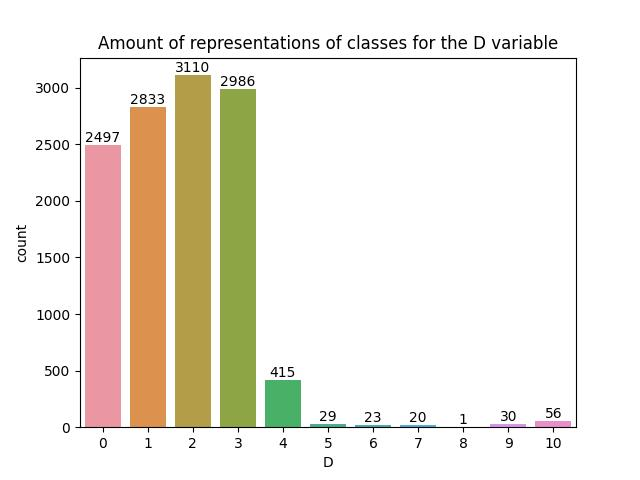
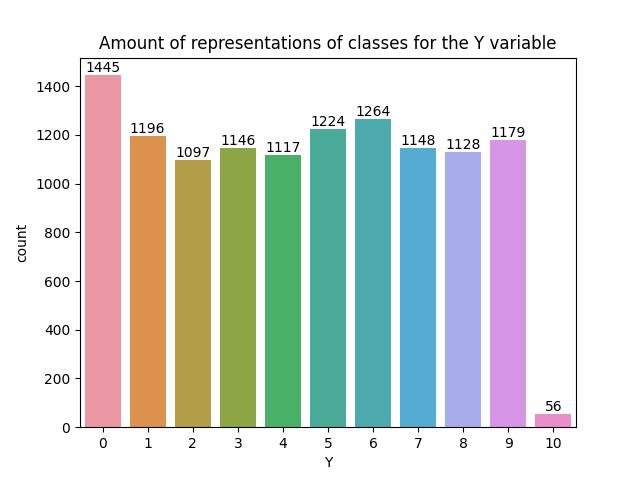
trained models using data generators

diff --git a/main.py b/main.py
@@ -11,8 +11,10 @@ from keras.preprocessing import image
 from tensorflow.keras.models import Model
 from tensorflow.keras.layers import Dense, Input, Dropout, Conv2D, MaxPool2D, GlobalAveragePooling2D, Concatenate
 from tensorflow.keras import regularizers
-path = 'C:/Users/felix/Documents/_FWM/Master/Semester 3/Applied Machine Learning/Exam/data'
-
+from load_data import labels, X_train, X_test, X_val, y_train,y_test, y_val
+from cnn_model import build_cnn_model_default
+path = 'data'
+'''
 # creating the labels from CSV file
 labels = pd.read_csv(path + '/DIDA_12000_String_Digit_Labels.csv', names=['Index', 'Label'])
 
@@ -43,16 +45,15 @@ for i in range(0, len(labels)):
 labels['CC'] = CC
 labels['D'] = D
 labels['Y'] = Y
-'''
+
 # exploratory data analysis - summary statistics
 
-ax = sns.countplot(labels['D'])
+ax = sns.countplot(labels['Y'])
 plt.bar_label(ax.containers[0], label_type='edge')
-plt.title('Amount of representations of classes for the D variable')
+plt.title('Amount of representations of classes for the Y variable')
 plt.savefig('Y_barplot.jpg')
-plt.title('Amount of representations of classes for the D variable')
-plt.savefig('D_barplot.jpg')'''
-
+plt.title('Amount of representations of classes for the Y variable')
+plt.savefig('Y_barplot.jpg')
 # reading the data to a list
 raw_imgs = []
 
@@ -79,6 +80,7 @@ D_test_labels = labels.loc[y_test, 'D']
 Y_train_labels = labels.loc[y_train, 'Y']
 Y_val_labels = labels.loc[y_val, 'Y']
 Y_test_labels = labels.loc[y_test, 'Y']
+'''
 """
 # Defining the model for CC
 inputs = Input(shape = (84,150, 3))
@@ -232,3 +234,5 @@ Incep_simple_model.fit(
     epochs=10)
 '''
 
+CC_model = build_cnn_model_default(True, False, False)
+hist = CC_model.fit(X_train, labels.CC[y_train], epochs=15, validation_data=(X_val,labels.CC[y_val]))

diff --git a/load_data.py b/load_data.py
@@ -2,20 +2,10 @@ import numpy as np
 import pandas as pd
 import imblearn
 import os
-import re
-from PIL import Image
 import tensorflow as tf
-import seaborn as sns
-import matplotlib.pyplot as plt
-import keras
-import sklearn
 from sklearn.model_selection import train_test_split
 from keras.preprocessing import image
-from main import X_test as X_test_np
-from tensorflow.keras.models import Model
-from tensorflow.keras.layers import Dense, Input, Dropout, Conv2D, MaxPool2D, GlobalAveragePooling2D, Concatenate
-from tensorflow.keras import regularizers
-import focal_loss
+
 path = 'data'
 # creating the labels from CSV file
 labels = pd.read_csv(path + '/DIDA_12000_String_Digit_Labels.csv', names=['Index', 'Label'])
@@ -64,6 +54,8 @@ print(labels.head())
 
 raw_imgs = []
 
+'''
+# writing it to three directories for data generators
 for i in range(1, 12001):
     current_image = image.load_img(os.path.join(path + '/original_data/' + str(i) + '.jpg'))
     raw_imgs.append(current_image)
@@ -72,7 +64,7 @@ for i in range(1, 12001):
 indices = np.array(range(0, 12000))
 X_train, X_test, y_train, y_test = train_test_split(raw_imgs, indices, random_state=42, test_size=0.2)
 X_train, X_val, y_train, y_val = train_test_split(X_train, y_train ,random_state=42, test_size=0.2)
-# writing it to three directories for data generators
+
 def write_to_dir (data, type, filenames):
     path = 'data' + '/' + type
     for i in range(len(data)):
@@ -84,7 +76,7 @@ val_filename = np.array(y_val) + 1
 write_to_dir(X_test, 'test', test_filename)
 write_to_dir(X_train, 'train', train_filename)
 write_to_dir(X_val, 'validation', val_filename)
-
+'''
 # preparing numpy versions for 'normal' training
 raw_imgs = []
 

diff --git a/Image_generator.py b/Image_generator.py
@@ -15,7 +15,6 @@ from main import X_test as X_test_np
 from tensorflow.keras.models import Model
 from tensorflow.keras.layers import Dense, Input, Dropout, Conv2D, MaxPool2D, GlobalAveragePooling2D, Concatenate
 from tensorflow.keras import regularizers
-import focal_loss
 from load_data import labels, X_train, X_test, X_val, y_train,y_test, y_val
 
 '''
